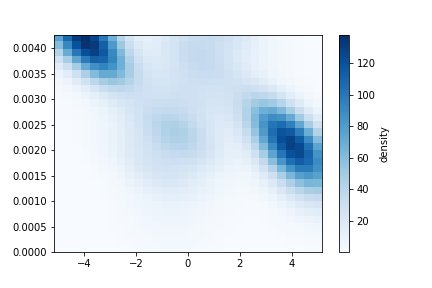
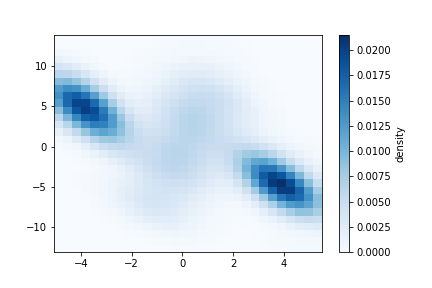
added d* distribution from kernel estimation method

diff --git a/metrics_test/Kernel_estimation_method.py b/metrics_test/Kernel_estimation_method.py
@@ -20,6 +20,9 @@ import matplotlib
 from mpl_toolkits.mplot3d import Axes3D
 from sklearn.neighbors import KernelDensity
 from scipy.stats import gaussian_kde
+from sklearn.model_selection import GridSearchCV
+from ekp_style import set_ekp_style
+set_ekp_style(set_sizes=True, set_background=True, set_colors=True)
 
 
 def generate_norm_data(length, diff):
@@ -34,75 +37,102 @@ def generate_norm_data(length, diff):
             x[i] = 2/5*np.random.randn()+4
 
     y = 7*np.sin(x) + diff*abs(np.cos(x/2))*np.random.randn(length)
-    y = y + abs(np.min(y))
-    y_norm = y/np.sum(y)
-    return x, y_norm
+    #y = y + abs(np.min(y))
+    #y_norm = y/np.sum(y)
+    return x, y
 
 
-def kernel_estimator(data1, xplot, h):
-    kde = KernelDensity(kernel="gaussian", bandwidth=h).fit(data1)
-    log_dens = kde.score_samples(xplot)
+def kernel_estimator(x_test, y_test):
+    dens_sample = np.vstack((x_test, y_test))
+    xgrid = np.linspace(np.min(x_test), np.max(x_test), 30)
+    ygrid = np.linspace(np.min(y_test), np.max(y_test), 30)
+    Xgrid, Ygrid = np.meshgrid(xgrid, ygrid)
+    params = {'bandwidth': np.logspace(-1, 1, 20)}
+    grid = GridSearchCV(KernelDensity(), params)
+    grid.fit(dens_sample.T)
+    kde = grid.best_estimator_
+    log_dens = kde.score_samples(np.vstack([Xgrid.ravel(), Ygrid.ravel()]).T)
+    return log_dens, grid.best_estimator_.bandwidth, Xgrid, kde
+
+
+# +
+def find_distribution(x, y_a, y_b, nbr):
+    random_ints = np.random.randint(0, len(x), nbr)
+    y_a_sample = y_a[random_ints]
+    y_b_sample = y_b[random_ints]
+    distribution = y_a_sample/(y_a_sample + y_b_sample)
+    return distribution
+    
+def f_star(kde, length, Xgrid):
+    new_samples = kde.sample(length)
+    x_sample, y_sample = np.hsplit(new_samples, 2)
+    x_sample = np.squeeze(x_sample)
+    y_sample = np.squeeze(y_sample)
+    log_dens, bandwidth, Xgrid, _ = kernel_estimator(x_sample, y_sample)
     return log_dens
 
-
-x, y = generate_norm_data(750, 3)
-#plt.plot(x, y, '.b')
+def D_star_average(kde, length, Xgrid, nbr):
+    average = []
+    for i in range(nbr):
+        D_star = find_distribution(np.reshape(Xgrid_1, -1), log_dens_sample1, f_star(kde, length, Xgrid), 500)
+        average.append(D_star)
+    average = np.reshape(average, -1)
+    return average
 
 
 # +
 x1, y1 = generate_norm_data(450, 3)
 x2, y2 = generate_norm_data(450, 3)
-x3, y3 = generate_norm_data(750, 7)
-x4, y4 = generate_norm_data(750, 7)
+x3, y3 = generate_norm_data(750, 3)
+x4, y4 = generate_norm_data(750, 3)
 
 x_test1 = np.concatenate((x1, x2))
 y_test1 = np.concatenate((y1, y2))
 x_test2 = np.concatenate((x3, x4))
 y_test2 = np.concatenate((y3, y4))
-print(np.shape(x_test1))
-print(np.shape(y_test1))
 # -
 
-h1, xedges, yedges, image = plt.hist2d(x_test1, y_test1, bins = (30, 30), norm = matplotlib.colors.PowerNorm(0.3))
-print(np.shape(h1))
-h2, xedges2, yedges2, image2 = plt.hist2d(x_test2, y_test2, bins = (30, 30), norm = matplotlib.colors.PowerNorm(0.3))
+h1, xedges, yedges, image = plt.hist2d(x_test1, y_test1, bins = (30, 30), norm = matplotlib.colors.PowerNorm(0.3), density=True)
+h2, xedges2, yedges2, image2 = plt.hist2d(x_test2, y_test2, bins = (30, 30), norm = matplotlib.colors.PowerNorm(0.3), density=True)
+plt.colorbar()
 plt.show()
-xx, yy = np.mgrid[-5:5:30j, 
-                      0:0.003:30j]
-xy_sample = np.vstack([yy.ravel(), xx.ravel()]).T
-print(np.shape(xy_sample))
-print(xy_sample)
-dens_sample = np.vstack((x_test1, y_test1))
-print(np.shape(dens_sample))
 
-xgrid = np.linspace(-5, 5, 30)
-ygrid = np.linspace(0, 0.003, 30)
-Xgrid, Ygrid = np.meshgrid(xgrid, ygrid)
+log_dens_sample1, bandwidth_1, Xgrid_1, kde1 = kernel_estimator(x_test1, y_test1)
+dens_1 = np.exp(log_dens_sample1)
+log_dens_sample2, bandwidth_2, Xgrid_2, kde2 = kernel_estimator(x_test2, y_test2)
+dens_2 = np.exp(log_dens_sample2)
 
-
-# +
-kde = gaussian_kde(dens_sample)
-Z = kde.evaluate(np.vstack([Xgrid.ravel(), Ygrid.ravel()]))
-
-log_dens = kernel_estimator(dens_sample.T, np.vstack([Xgrid.ravel(), Ygrid.ravel()]).T, 0.2)
-dens = np.exp(log_dens)
-
-# -
-
-plt.imshow(Z.reshape(Xgrid.shape),
+plt.imshow(dens_1.reshape(Xgrid_1.shape),
            origin='lower', aspect='auto',
            extent=[np.min(x_test1), np.max(x_test1), np.min(y_test1), np.max(y_test1)],
            cmap='Blues')
 cb = plt.colorbar()
 cb.set_label("density")
-plt.savefig("./plots/metrics/gaussian_kernel_scipy_heteroscedastic.png")
 
-plt.imshow(dens.reshape(Xgrid.shape),
+plt.imshow(dens_2.reshape(Xgrid_2.shape),
            origin='lower', aspect='auto',
-           extent=[np.min(x_test1), np.max(x_test1), np.min(y_test1), np.max(y_test1)],
+           extent=[np.min(x_test2), np.max(x_test2), np.min(y_test2), np.max(y_test2)],
            cmap='Blues')
 cb = plt.colorbar()
 cb.set_label("density")
-plt.savefig("./plots/metrics/gaussian_kernel_sklearn_heteroscedastic.png")
 
+log_dens_star= f_star(kde1, 700, Xgrid_1)
+dens_star = np.exp(log_dens_star)
+plt.imshow(dens_star.reshape(Xgrid_2.shape),
+           origin='lower', aspect='auto',
+           extent=[np.min(x_test2), np.max(x_test2), np.min(y_test2), np.max(y_test2)],
+           cmap='Blues')
+cb = plt.colorbar()
+cb.set_label("density")
 
+D = find_distribution(np.reshape(Xgrid_1, -1), log_dens_sample1, log_dens_sample2, 500)
+plt.hist(D, bins=20)
+plt.show()
+
+D_star = find_distribution(np.reshape(Xgrid_1, -1), log_dens_sample1, f_star(kde1, 1500, Xgrid_1), 500)
+plt.hist(D_star)
+plt.show()
+
+average = D_star_average(kde1, 1500, Xgrid_1, 20)
+plt.hist(average, weights = np.full(len(average), 20))
+plt.show()

diff --git a/metrics_test/.ipynb_checkpoints/2D_Kolmogorov-checkpoint.py b/metrics_test/.ipynb_checkpoints/2D_Kolmogorov-checkpoint.py
@@ -1,0 +1,84 @@
+# ---
+# jupyter:
+#   jupytext:
+#     formats: ipynb,py:light
+#     text_representation:
+#       extension: .py
+#       format_name: light
+#       format_version: '1.5'
+#       jupytext_version: 1.5.0
+#   kernelspec:
+#     display_name: Python 3
+#     language: python
+#     name: python3
+# ---
+
+import numpy as np
+import math
+import matplotlib.pyplot as plt
+import matplotlib
+from mpl_toolkits.mplot3d import Axes3D
+from ekp_style import set_ekp_style
+set_ekp_style(set_sizes=True, set_background=True, set_colors=True)
+
+
+def generate_data(length, diff):
+    x = np.zeros(length)
+    y = np.zeros(len(x))
+    for i in range(length):
+        if i < length/3:
+            x[i] = 2/5*np.random.randn()-4 
+        elif i >= length/3 and i < length*2/3:
+            x[i] = 0.9*np.random.randn() 
+        else:    
+            x[i] = 2/5*np.random.randn()+4
+
+    y = 7*np.sin(x) + diff*abs(np.cos(x/2))*np.random.randn(length)
+    return x, y
+
+
+def load_data(nr):
+    x, y = np.loadtxt("./data/paper_heteroscedastic_data_test_{}.txt".format(nr))
+    return x,y
+
+
+def normalize_it(y):
+    y = y + abs(np.min(y))
+    y_norm = y/np.sum(y)
+    return y_norm
+
+
+def kolmogorov_2d(h1, h2, xedges, yedges):
+    diff_point = 0
+    diff_abs = 0
+    for i in range(len(xedges)):
+        for j in range(len(yedges)):
+            diff_point = max(np.sum(h2[:i][:j]), np.sum(h1[i:][:j]), np.sum(h1[:i][j:]), np.sum(h1[i:][j:]))-max(np.sum(h2[:i][:j]), np.sum(h2[i:][:j]), np.sum(h2[:i][j:]), np.sum(h2[i:][j:]))
+            diff_point = abs(diff_point)
+            if diff_point > diff_abs:
+                diff_abs = diff_point
+    return diff_abs
+
+
+x1, y1 = generate_data(750, 3)
+y1 = normalize_it(y1)
+x2, y2 = generate_data(750, 3)
+y2 = normalize_it(y2)
+x3, y3 = generate_data(750, 7)
+y3 = normalize_it(y3)
+x4, y4 = generate_data(750, 7)
+y4 = normalize_it(y4)
+
+x_test1 = np.concatenate((x1, x2))
+y_test1 = np.concatenate((y1, y2))
+x_test2 = np.concatenate((x3, x4))
+y_test2 = np.concatenate((y3, y4))
+
+# %matplotlib inline
+h1, xedges, yedges, image = plt.hist2d(x_test1, y_test1, bins = (30, 30), norm = matplotlib.colors.PowerNorm(0.3))
+plt.show()
+h2, xedges2, yedges2, image2 = plt.hist2d(x_test2, y_test2, bins = (30, 30), norm = matplotlib.colors.PowerNorm(0.3))
+plt.show()
+plt.savefig("./plots/metrics/2D_hist_heteroscedastic.png")
+
+print(kolmogorov_2d(h1, h2, xedges, yedges))

diff --git a/metrics_test/2D_Kolmogorov.py b/metrics_test/2D_Kolmogorov.py
@@ -18,6 +18,8 @@ import math
 import matplotlib.pyplot as plt
 import matplotlib
 from mpl_toolkits.mplot3d import Axes3D
+from ekp_style import set_ekp_style
+set_ekp_style(set_sizes=True, set_background=True, set_colors=True)
 
 
 def generate_data(length, diff):

diff --git a/metrics_test/ScipyKernelTryout.py b/metrics_test/ScipyKernelTryout.py
@@ -30,7 +30,10 @@ print(X[:, 0])
 kde = KernelDensity(kernel='gaussian', bandwidth=0.75).fit(X)
 log_dens = kde.score_samples(X_plot)
 
-print(X_plot[:, 0])
+# +
+
 plt.fill(X_plot[:, 0], np.exp(log_dens), fc='#AAAAFF')
+plt.show()
+# -
 
 
